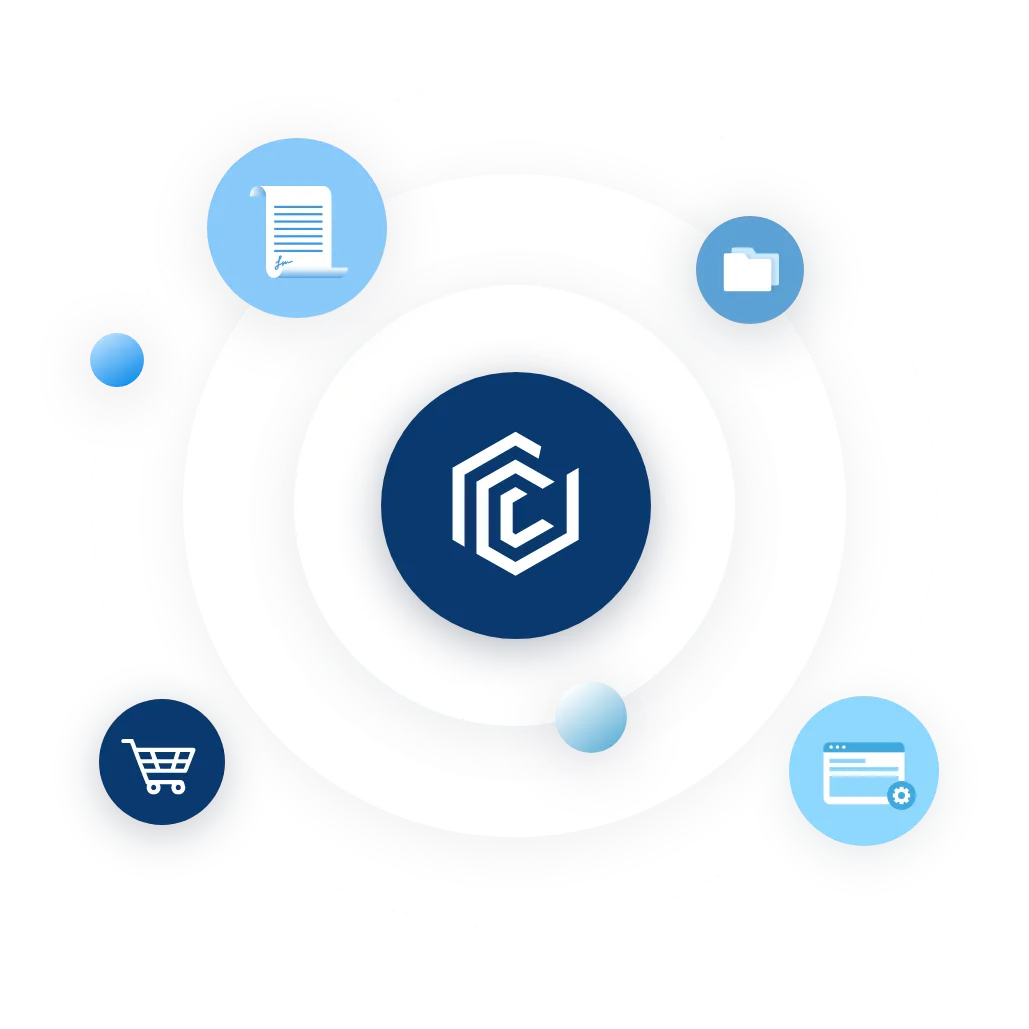
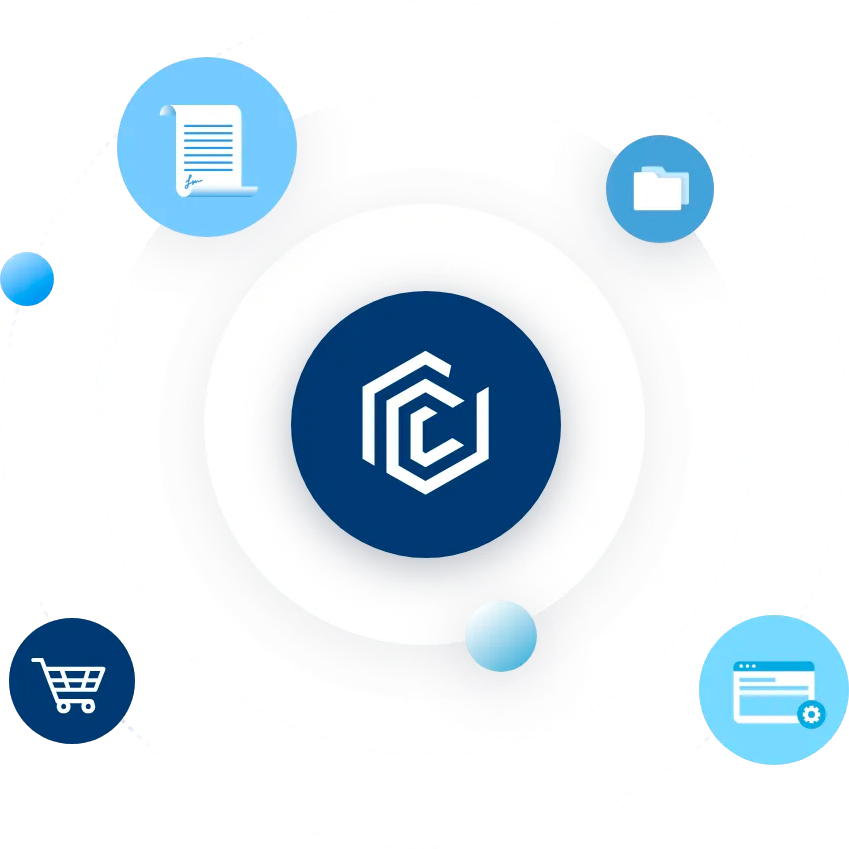
fix: image is too small in mobile 'Welcome' component

diff --git a/src/view/Welcome.tsx b/src/view/Welcome.tsx
@@ -388,22 +388,13 @@ const Welcome = () => {
                             reliability.
                         </Typography>
                     </Stack>
-                    <Stack
-                        alignItems="center"
-                        sx={{
-                            position: 'relative',
-                            width: '100%',
-                            height: 'calc(100vw - 50px)',
-                        }}
-                    >
+
+                    <Stack>
                         <img
                             src={M_IMG_MAIN_VISUAL}
                             alt=""
                             style={{
-                                maxWidth: 'calc(100% - 30px)',
-                                width: '100%',
-                                position: 'absolute',
-                                top: '-2px',
+                                margin: '46px',
                             }}
                         />
                     </Stack>
